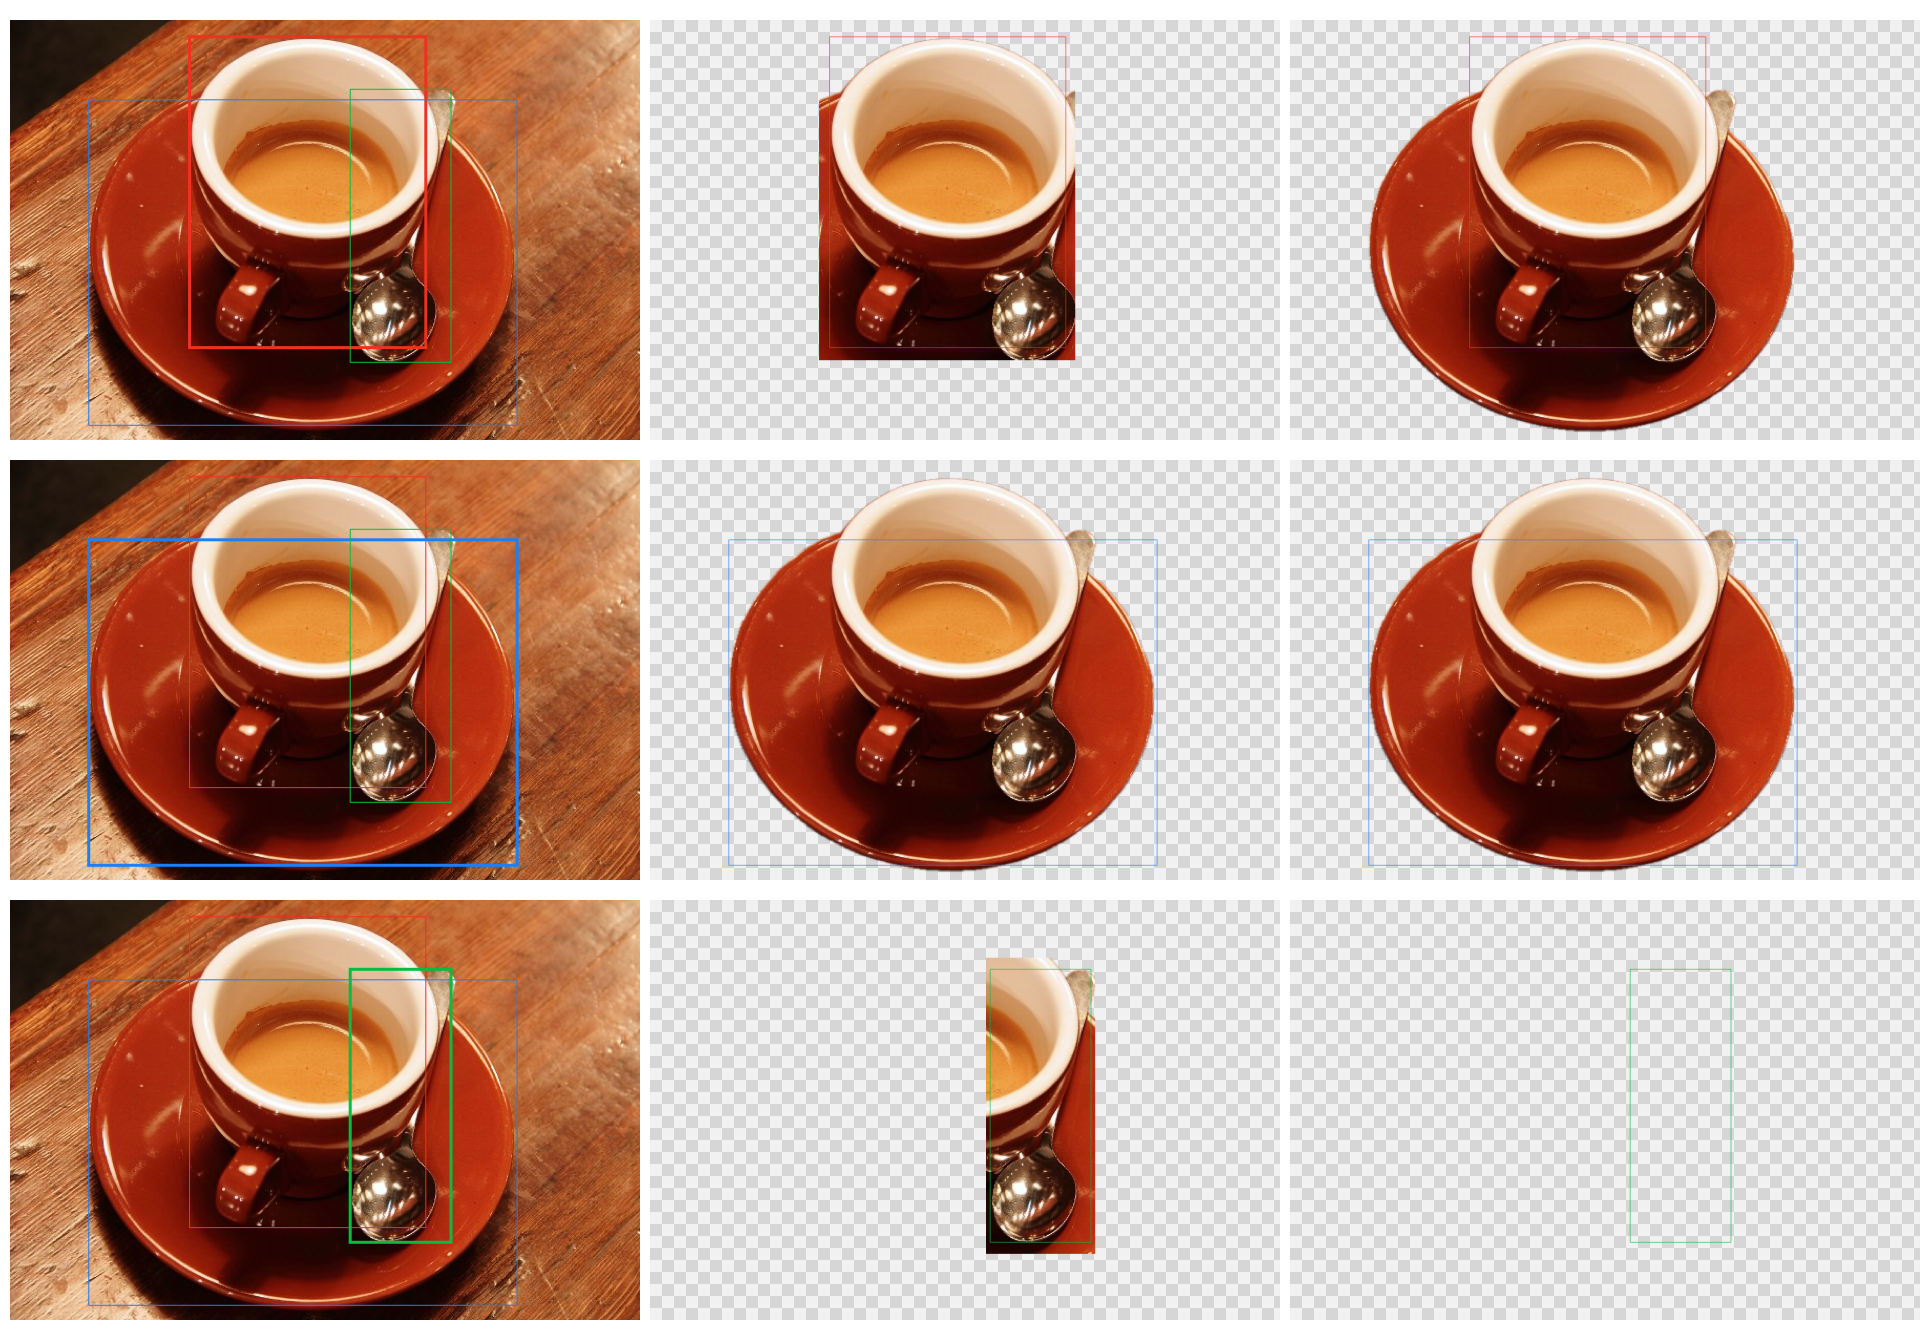
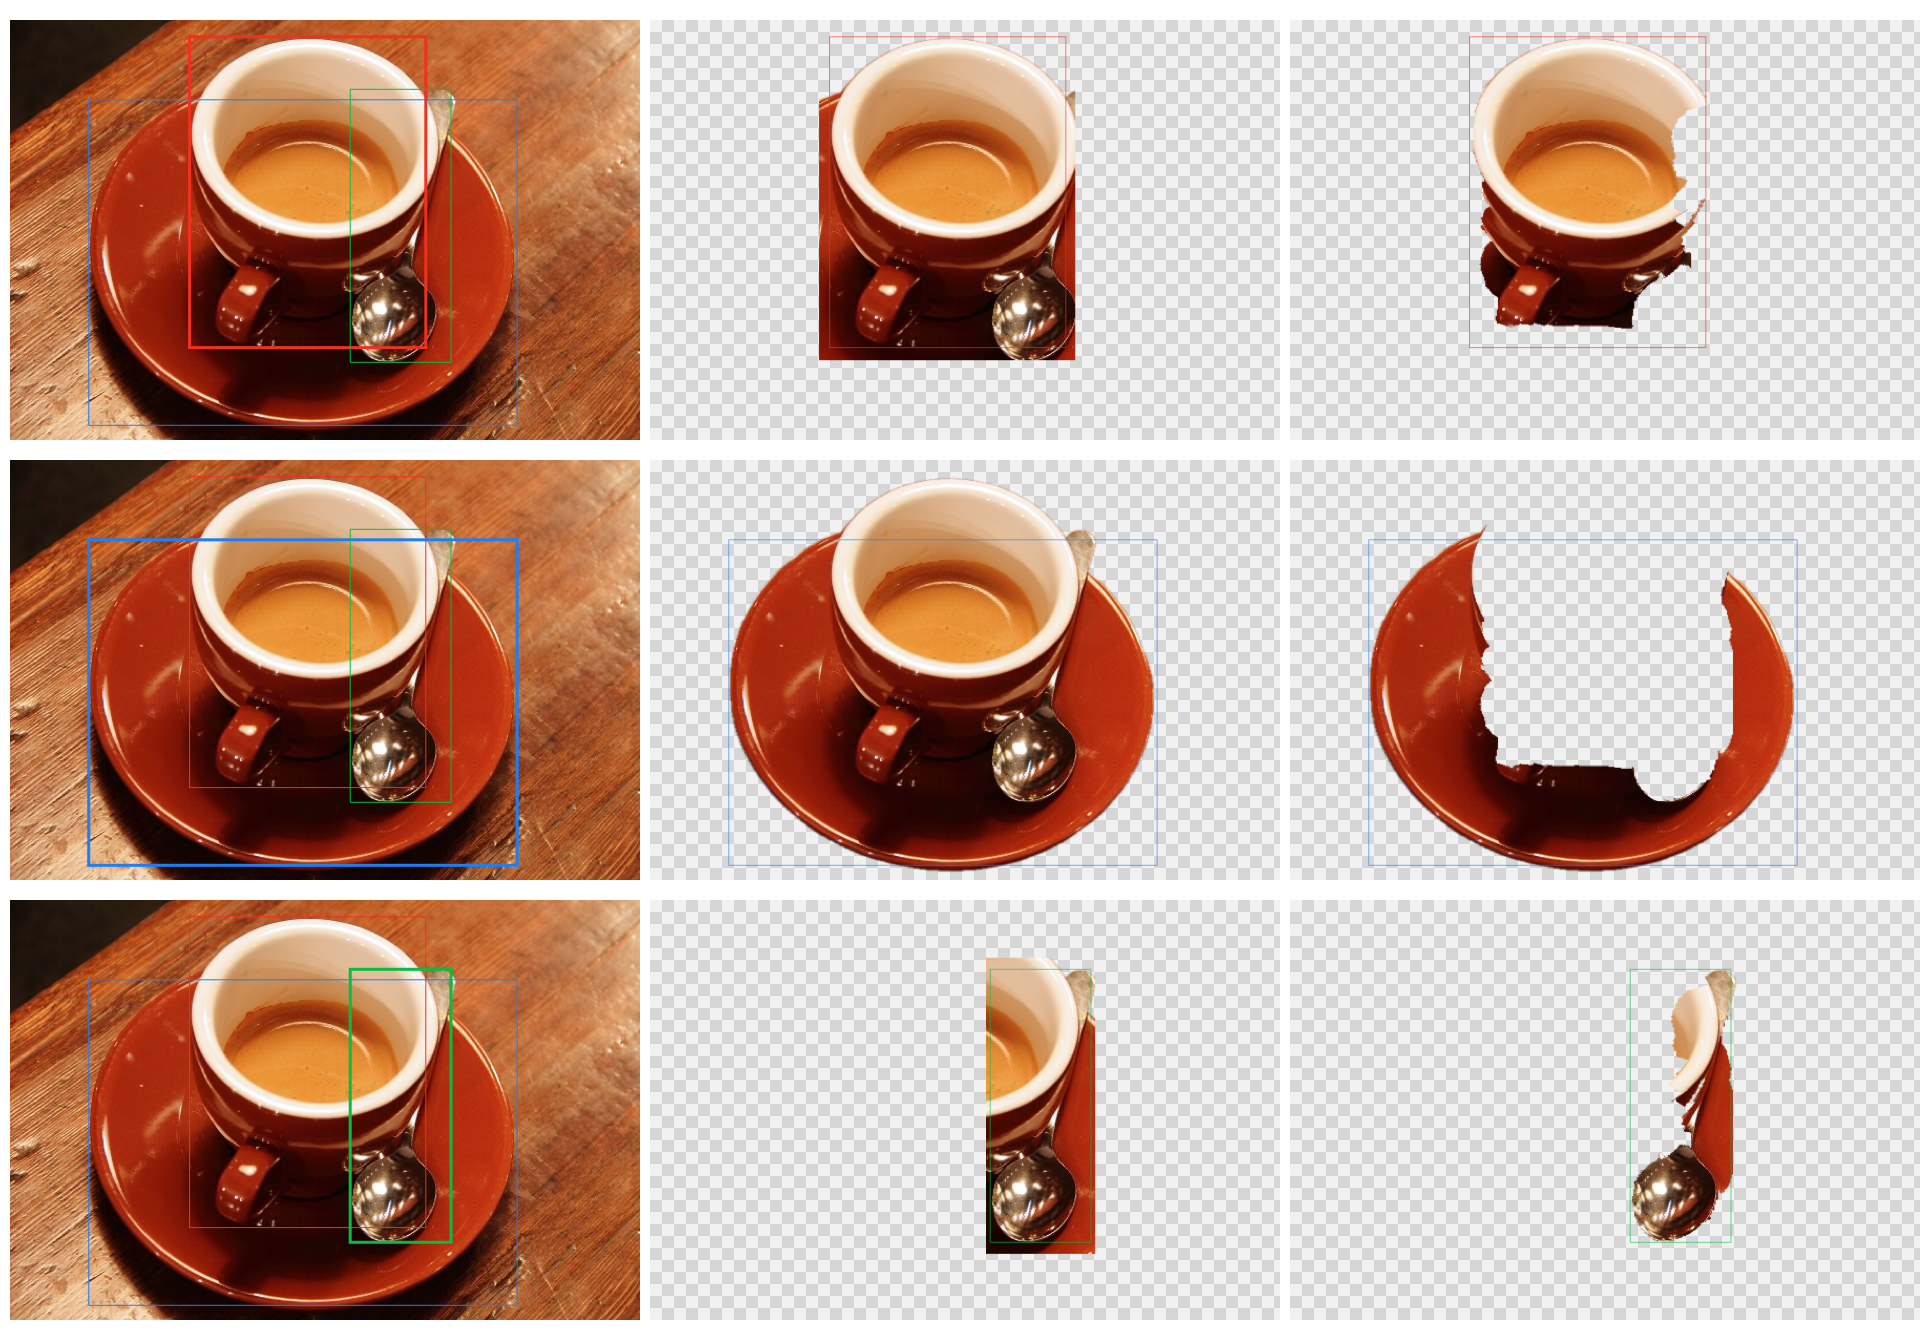
cut-out harness for ccr-89cbeb71-xcif1z @ 76bca2ee96757834f65daecf44eb879e7ca06a4c

Changed region(s): [[0.6839, 0.0612, 0.9326, 0.6119], [0.8394, 0.7037, 0.9016, 0.9485]]

diff --git a/runs/ccr-89cbeb71-xcif1z-cutout/summary.md b/runs/ccr-89cbeb71-xcif1z-cutout/summary.md
@@ -1,30 +1,30 @@
 | case | thing | before (old plan) | after (now) | covers before → after | straight before → after | rectangle | other thing | result |
 |---|---|---|---|---|---|---|---|---|
-| dorayaki-box-right | 冰淇淋 | CLIP [1] to box (0.18,0.34 0.64×0.34) | part of [1] (40540 px) | 100% → 100% | 0% → 0% | no → no | 0% | ok |
-| dorayaki-box-right | 盒子 | CLIP [1] to box (0.17,0.03 0.65×0.34) | part of [1] (44894 px) | 98% → 98% | 28% → 28% | no → no | 0% | ok |
+| dorayaki-box-right | 冰淇淋 | CLIP [1] to box (0.18,0.34 0.64×0.34) | part of [1] (40535 px) | 100% → 100% | 0% → 0% | no → no | 0% | ok |
+| dorayaki-box-right | 盒子 | CLIP [1] to box (0.17,0.03 0.65×0.34) | part of [1] (44899 px) | 98% → 98% | 28% → 28% | no → no | 0% | ok |
 | dorayaki-box-off | 冰淇淋 | instance 1 | instance 1 + region | 100% → 100% | 0% → 0% | no → no | 0% | ok |
-| dorayaki-box-off-carton | 冰淇淋 | CLIP [1] to box (0.42,0.33 0.42×0.31) | part of [1] (40555 px) | 65% → 100% | 97% → 0% | no → no | 0% | ok |
-| dorayaki-box-off-carton | 盒子 | CLIP [1] to box (0.17,0.03 0.65×0.34) | part of [1] (44879 px) | 98% → 98% | 28% → 28% | no → no | 0% | ok |
+| dorayaki-box-off-carton | 冰淇淋 | CLIP [1] to box (0.42,0.33 0.42×0.31) | part of [1] (40535 px) | 65% → 100% | 97% → 0% | no → no | 0% | ok |
+| dorayaki-box-off-carton | 盒子 | CLIP [1] to box (0.17,0.03 0.65×0.34) | part of [1] (44899 px) | 98% → 98% | 28% → 28% | no → no | 0% | ok |
 | dorayaki-box-30-smaller | 冰淇淋 | instance 1 | instance 1 + region | 100% → 100% | 0% → 0% | no → no | 0% | ok |
 | dorayaki-no-box | 冰淇淋 | instance 1 | instance 1 | 100% → 100% | 0% → 0% | no → no | 0% | ok |
 | dorayaki-point-outside | 冰淇淋 | instance 1 | instance 1 + region | 100% → 100% | 0% → 0% | no → no | 0% | ok |
 | dorayaki-exif-rotated | 冰淇淋 | instance 1 | instance 1 + region | 100% → 100% | 0% → 0% | no → no | 0% | ok |
-| coffee-cup-saucer-spoon | 杯子 | CLIP [1] to box (0.27,0.01 0.41×0.80) | part of [1] (52135 px) | 98% → 98% | 9% → 9% | no → no | 5% | ok |
-| coffee-cup-saucer-spoon | 盤子 | instance 1 | part of [1] (58792 px) | - → - | - → - | - → - | - | ok |
-| coffee-cup-saucer-spoon | 湯匙 | CLIP [1] to box (0.53,0.14 0.17×0.70) | part of [1] (13677 px) | 100% → 0% | 0% → 0% | no → no | 0% | ok |
+| coffee-cup-saucer-spoon | 杯子 | CLIP [1] to box (0.27,0.01 0.41×0.80) | part of [1] (52168 px) | 98% → 95% | 9% → 89% | no → no | 0% | FAIL: a straight cut through the thing along 89% of a line |
+| coffee-cup-saucer-spoon | 盤子 | instance 1 | part of [1] (57197 px) | - → - | - → - | - → - | - | ok |
+| coffee-cup-saucer-spoon | 湯匙 | CLIP [1] to box (0.53,0.14 0.17×0.70) | part of [1] (15239 px) | 100% → 100% | 0% → 3% | no → no | 5% | ok |
 | coffee-cup-box-small | 杯子 | instance 1 | instance 1 + region | 98% → 98% | 9% → 9% | no → no | 0% | ok |
 | chelsea-fills-frame | 貓 | instance 1 | instance 1 | 99% → 99% | 30% → 30% | no → no | 0% | ok |
 | chelsea-box-small | 貓 | instance 1 | instance 1 | 99% → 99% | 30% → 30% | no → no | 0% | ok |
-| astronaut-helmet | 安全帽 | CLIP [1] to box (0.52,0.66 0.48×0.34) | part of [1] (29885 px) | 99% → 0% | 52% → 0% | no → no | 0% | FAIL: covers 0% of the thing (< 85%) |
-| astronaut-helmet | 太空梭 | no mask | no mask | 97% → 0% | 100% → 0% | no → no | 0% | FAIL: covers 0% of the thing (< 85%) |
-| astronaut-helmet | 太空人 | CLIP [1] to box (0.00,0.00 0.75×1.00) | part of [1] (110965 px) | - → - | - → - | - → - | - | ok |
+| astronaut-helmet | 安全帽 | CLIP [1] to box (0.52,0.66 0.48×0.34) | part of [1] (31493 px) | 99% → 97% | 52% → 52% | no → no | 0% | FAIL: a straight cut through the thing along 52% of a line |
+| astronaut-helmet | 太空梭 | no mask | no mask, no cut-out (expected: none — Vision has no instance for the model shuttle in the whole photo, and on crops round it only one merged with its stand and the dark table running out of the crop (mostly outside its box): the old plan's cut-out of it ended in the crop's straight edge (straight cut 100%). No cut-out is the honest result.) | 97% → 0% | 100% → 0% | no → no | 0% | ok |
+| astronaut-helmet | 太空人 | CLIP [1] to box (0.00,0.00 0.75×1.00) | part of [1] (109357 px) | - → - | - → - | - → - | - | ok |
 | cafe-cup-vase | 咖啡 | instance 1 | instance 1 | 100% → 100% | 0% → 0% | no → no | 0% | ok |
 | cafe-cup-vase | 花瓶 | no mask | no mask | 98% → 97% | 20% → 20% | no → no | 0% | ok |
-| cafe-cup-vase | 花 | no mask | no mask | - → - | - → - | - → - | - | ok |
+| cafe-cup-vase | 花 | no mask | no mask, no cut-out | - → - | - → - | - → - | - | ok |
 | cat-and-plant | 貓 | instance 1 | instance 1 | 95% → 95% | 27% → 27% | no → no | 0% | ok |
-| cat-and-plant | 植物 | no mask | no mask | - → - | - → - | - → - | - | ok |
+| cat-and-plant | 植物 | no mask | no mask, no cut-out | - → - | - → - | - → - | - | ok |
 | boba-portrait | 珍珠奶茶 | instance 1 | instance 1 | 96% → 96% | 25% → 25% | no → no | 0% | ok |
-| glasses-against-bottle | 眼鏡 | CLIP [1] to box (0.16,0.53 0.63×0.30) | part of [1] (6650 px) | 100% → 99% | 0% → 0% | no → no | 21% | FAIL: 21% of it is another named thing |
-| glasses-against-bottle | 水壺 | CLIP [1] to box (0.62,0.09 0.29×0.78) | part of [1] (22510 px) | 100% → 94% | 0% → 28% | no → no | 0% | ok |
+| glasses-against-bottle | 眼鏡 | CLIP [1] to box (0.16,0.53 0.63×0.30) | part of [1] (5536 px) | 100% → 100% | 0% → 0% | no → no | 0% | ok |
+| glasses-against-bottle | 水壺 | CLIP [1] to box (0.62,0.09 0.29×0.78) | part of [1] (23624 px) | 100% → 100% | 0% → 0% | no → no | 0% | ok |
 | keys-on-remote | 遙控器 | instance 1 | instance 1 | 100% → 100% | 0% → 0% | no → no | 0% | ok |
 | keys-on-remote | 鑰匙 | instance 2 | instance 2 | 100% → 100% | 0% → 0% | no → no | 0% | ok |
